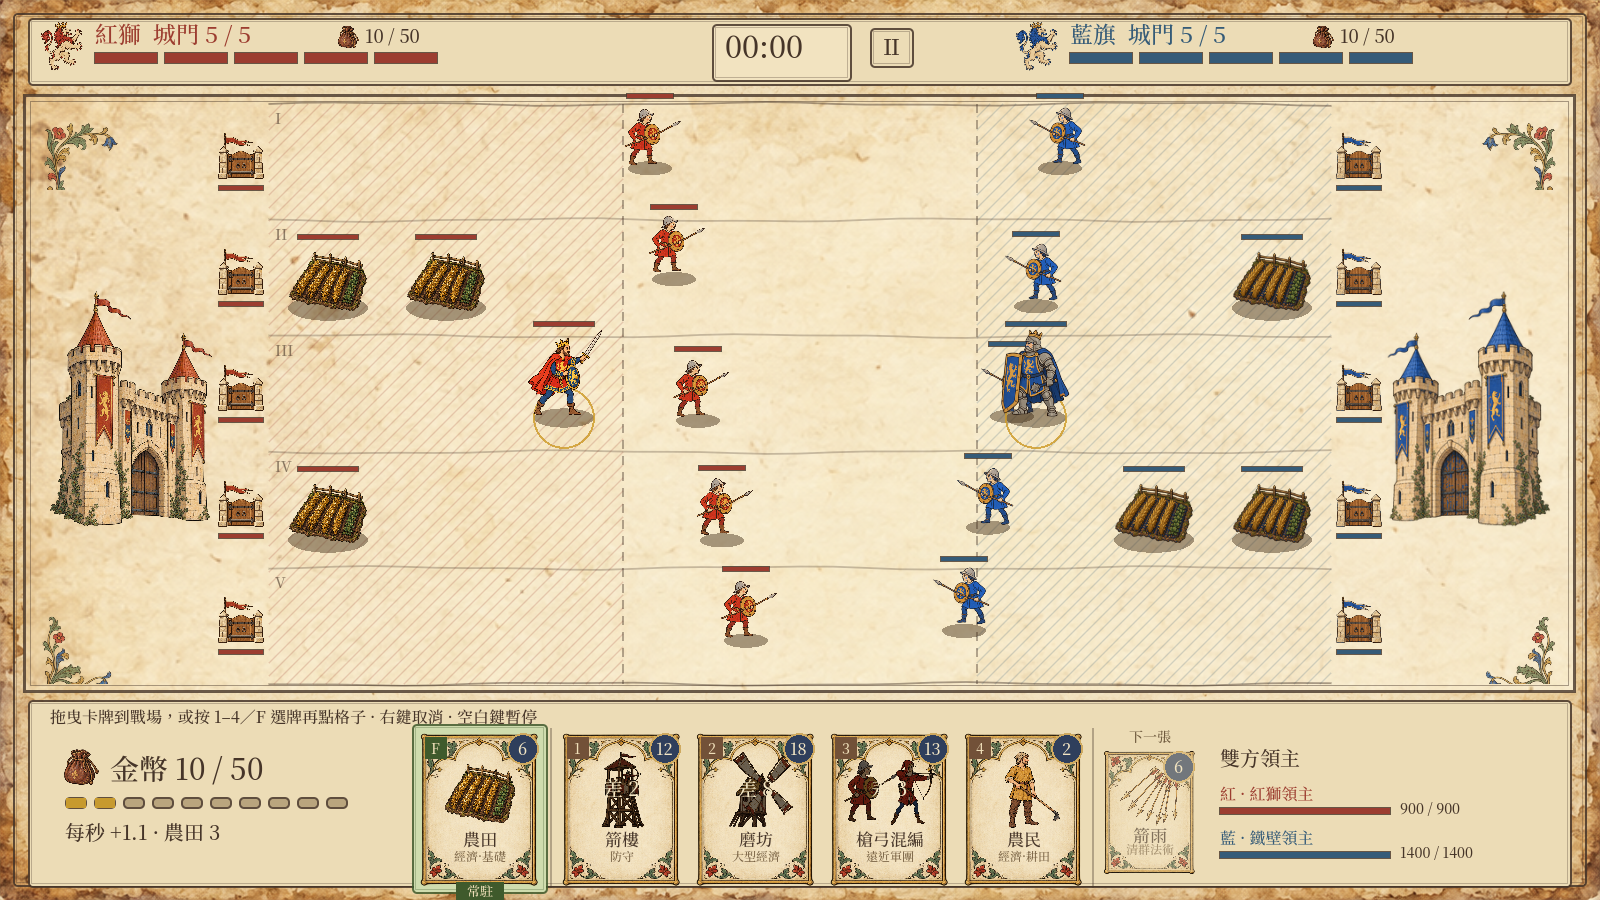
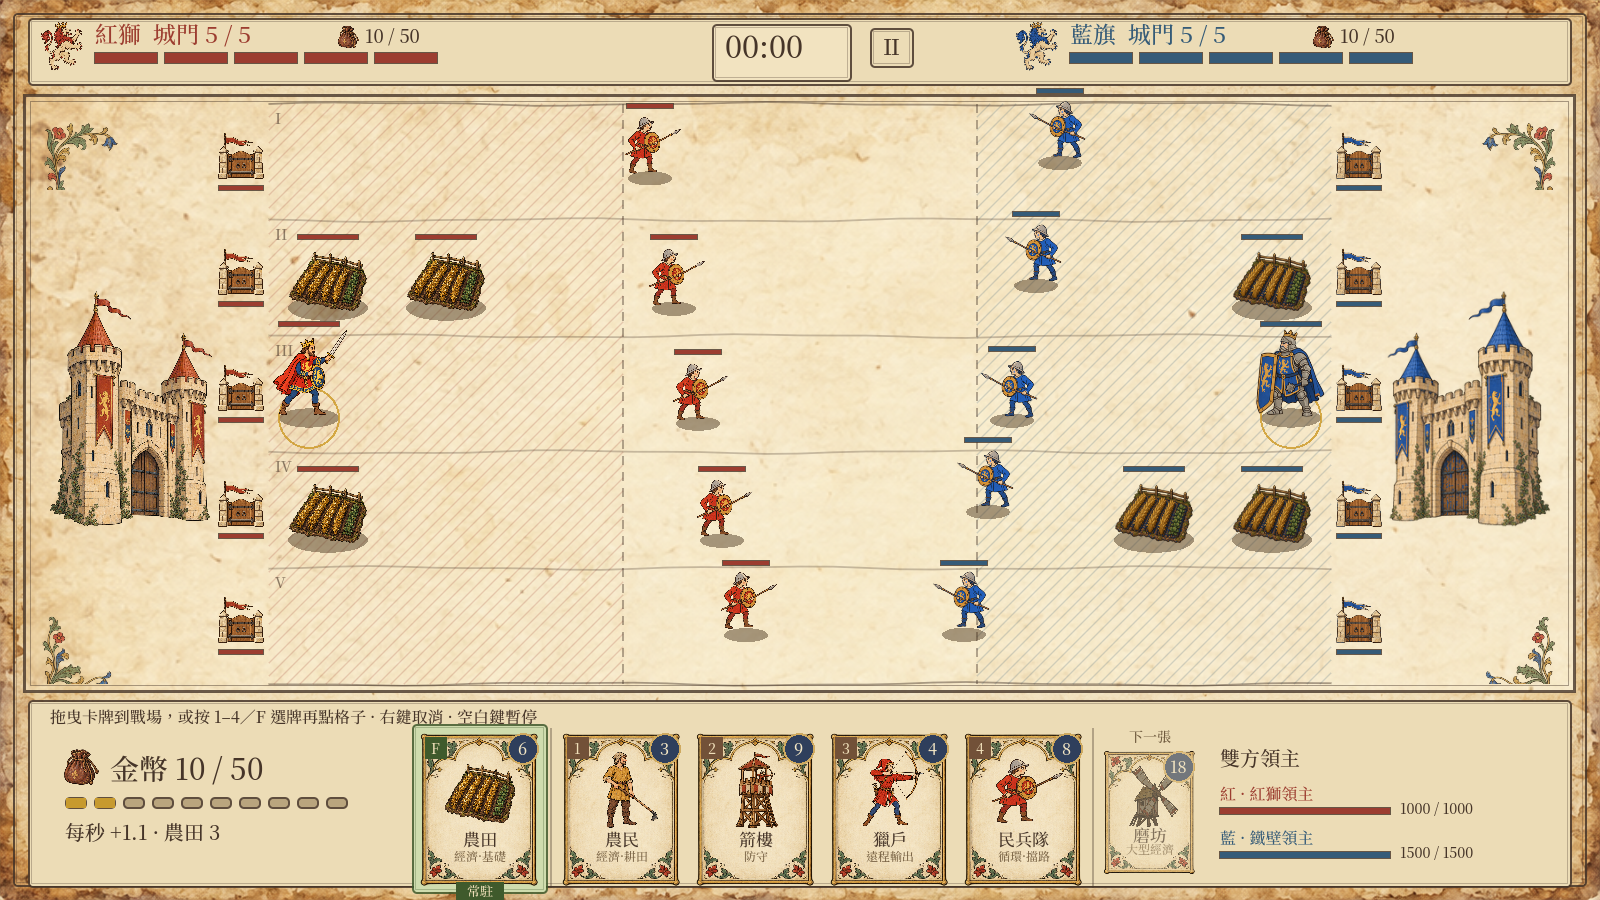
Lords stay behind the farms; lord speed 160 -> 90
Lords now move only in a strip between the gate and the back farm
column (LORD_ZONE_DEPTH 40 px), one speed tier lower, so raids on farms
are no longer stopped for free. Simulation now records farms lost in
the first 3 minutes and the first breach time.

1000 random matches: farms lost early per side 1.52 -> 2.03, first
breach median 174 -> 139 s; harvest lord 74%, iron 38%, lion 37%.
381 checks pass.

diff --git a/tools/autobalance.py b/tools/autobalance.py
@@ -92,7 +92,11 @@ def analyse(results, cards):
                 s[0] += score[side]
                 s[1] += 1
     lengths.sort()
+    breaches = sorted(r["breach"] for r in results if r.get("breach", -1) >= 0)
+    lost = [n for r in results for n in r.get("farms_lost_early", [])]
     return {
+        "breach": breaches[len(breaches) // 2] if breaches else -1,
+        "farms_lost": sum(lost) / len(lost) if lost else 0,
         "cards": {k: (v[0] / v[1] if v[1] else 0.5, v[1]) for k, v in stat.items()},
         "lords": {k: (v[0] / v[1] if v[1] else 0.5, v[1]) for k, v in lords.items()},
         "red_rate": red[0] / red[1] if red[1] else 0.5,
@@ -123,7 +127,8 @@ def table(analysis, cards, changes):
         rows.append(f"| {cards[kind][0]} | {cards[kind][1]} | {rate:.1%} | {games} | {change} |")
     lords = ", ".join(f"{k} {v[0]:.1%}（{v[1]}）" for k, v in sorted(analysis["lords"].items(), key=lambda kv: -kv[1][0]))
     head = (f"{analysis['matches']} 場；平手 {analysis['draws']}；決勝局中位數 {analysis['median']:.0f} 秒；"
-            f"紅方勝率 {analysis['red_rate']:.1%}\n\n領主勝率（雙方領主不同時）：{lords}\n")
+            f"紅方勝率 {analysis['red_rate']:.1%}\n\n"
+            f"前 3 分鐘每方平均被拆農田 {analysis['farms_lost']:.2f} 塊；第一次破門中位數 {analysis['breach']:.0f} 秒\n\n領主勝率（雙方領主不同時）：{lords}\n")
     return head + "\n" + "\n".join(rows)
 
 

diff --git a/docs/自動平衡報告.md b/docs/自動平衡報告.md
@@ -1,139 +1,34 @@
 # 自動平衡報告
 
-2026-10-29 19:59：共 500 場隨機牌組＋隨機領主的 AI 對戰，分 5 輪，每輪 100 場。每輪後依卡牌勝率調整費用（只改費用，數值檔次不動）。勝率只計算「只有一方帶這張牌」的對局；平手算半勝。
+2026-10-29 20:49：共 1000 場隨機牌組＋隨機領主的 AI 對戰，分 1 輪，每輪 1000 場。每輪後依卡牌勝率調整費用（只改費用，數值檔次不動）。勝率只計算「只有一方帶這張牌」的對局；平手算半勝。
 
-## 第 1 輪（84 秒）
+## 第 1 輪（475 秒）
 
-100 場；平手 0；決勝局中位數 194 秒；紅方勝率 49.0%
+1000 場；平手 1；決勝局中位數 169 秒；紅方勝率 49.5%
 
-領主勝率（雙方領主不同時）：harvest 66.7%（42）, iron 50.0%（44）, lion 34.1%（44）
+前 3 分鐘每方平均被拆農田 2.03 塊；第一次破門中位數 139 秒
 
-| 卡牌 | 費用 | 勝率 | 場次 | 調整 |
-|---|---|---|---|---|
-| 豐收 | 4 | 96.2% | 53 | 4 → 5 |
-| 民兵隊 | 7 | 68.0% | 50 | 7 → 8 |
-| 騎士 | 23 | 60.4% | 53 | 23 → 25 |
-| 農民 | 3 | 58.0% | 50 |  |
-| 獵戶 | 5 | 50.9% | 55 |  |
-| 槍弓混編 | 12 | 46.5% | 43 |  |
-| 聖堂護衛 | 30 | 45.5% | 55 |  |
-| 箭雨 | 6 | 45.3% | 53 |  |
-| 耕牛 | 14 | 45.3% | 53 |  |
-| 稻草人 | 3 | 44.9% | 49 |  |
-| 攻城槌 | 27 | 44.0% | 50 |  |
-| 草藥婆 | 6 | 43.2% | 44 |  |
-| 火罐 | 11 | 42.2% | 45 |  |
-| 乾草叉暴民 | 11 | 40.0% | 45 |  |
-| 箭樓 | 11 | 32.7% | 55 | 11 → 9 |
-| 磨坊 | 18 | 31.9% | 47 |  |
-
-## 第 2 輪（113 秒）
-
-100 場；平手 0；決勝局中位數 190 秒；紅方勝率 51.0%
-
-領主勝率（雙方領主不同時）：harvest 65.9%（41）, lion 50.0%（32）, iron 32.4%（37）
+領主勝率（雙方領主不同時）：harvest 74.3%（442）, iron 38.1%（425）, lion 36.9%（435）
 
 | 卡牌 | 費用 | 勝率 | 場次 | 調整 |
 |---|---|---|---|---|
-| 豐收 | 5 | 86.5% | 37 |  |
-| 箭雨 | 6 | 56.7% | 60 |  |
-| 獵戶 | 5 | 55.6% | 54 |  |
-| 火罐 | 11 | 54.3% | 35 |  |
-| 乾草叉暴民 | 11 | 52.0% | 50 |  |
-| 槍弓混編 | 12 | 51.4% | 37 |  |
-| 農民 | 3 | 50.0% | 42 |  |
-| 民兵隊 | 8 | 50.0% | 50 |  |
-| 騎士 | 25 | 47.8% | 46 |  |
-| 耕牛 | 14 | 46.9% | 49 |  |
-| 箭樓 | 9 | 46.8% | 47 |  |
-| 聖堂護衛 | 30 | 44.7% | 47 |  |
-| 草藥婆 | 6 | 43.2% | 44 |  |
-| 磨坊 | 18 | 42.2% | 45 |  |
-| 攻城槌 | 27 | 41.5% | 53 |  |
-| 稻草人 | 3 | 34.2% | 38 |  |
-
-## 第 3 輪（79 秒）
-
-100 場；平手 0；決勝局中位數 196 秒；紅方勝率 50.0%
-
-領主勝率（雙方領主不同時）：iron 58.8%（34）, harvest 56.9%（51）, lion 35.6%（45）
-
-| 卡牌 | 費用 | 勝率 | 場次 | 調整 |
-|---|---|---|---|---|
-| 豐收 | 5 | 80.9% | 47 |  |
-| 火罐 | 11 | 67.4% | 43 |  |
-| 乾草叉暴民 | 11 | 64.1% | 39 |  |
-| 騎士 | 25 | 60.4% | 53 | 25 → 26 |
-| 民兵隊 | 8 | 51.9% | 52 |  |
-| 農民 | 3 | 50.0% | 50 |  |
-| 槍弓混編 | 12 | 50.0% | 50 |  |
-| 聖堂護衛 | 30 | 49.0% | 51 |  |
-| 耕牛 | 14 | 46.7% | 45 |  |
-| 獵戶 | 5 | 46.5% | 43 |  |
-| 箭雨 | 6 | 45.8% | 59 |  |
-| 攻城槌 | 27 | 45.5% | 44 |  |
-| 磨坊 | 18 | 43.3% | 60 |  |
-| 稻草人 | 3 | 39.5% | 43 |  |
-| 草藥婆 | 6 | 33.3% | 42 |  |
-| 箭樓 | 9 | 27.7% | 47 |  |
-
-## 第 4 輪（98 秒）
-
-100 場；平手 1；決勝局中位數 206 秒；紅方勝率 50.5%
-
-領主勝率（雙方領主不同時）：harvest 62.2%（45）, iron 47.9%（48）, lion 38.5%（39）
-
-| 卡牌 | 費用 | 勝率 | 場次 | 調整 |
-|---|---|---|---|---|
-| 豐收 | 5 | 86.4% | 44 |  |
-| 民兵隊 | 8 | 65.2% | 46 |  |
-| 騎士 | 26 | 56.7% | 45 |  |
-| 箭雨 | 6 | 56.1% | 49 |  |
-| 乾草叉暴民 | 11 | 55.1% | 49 |  |
-| 槍弓混編 | 12 | 51.9% | 54 |  |
-| 農民 | 3 | 50.0% | 49 |  |
-| 磨坊 | 18 | 50.0% | 44 |  |
-| 耕牛 | 14 | 48.1% | 54 |  |
-| 火罐 | 11 | 45.6% | 45 |  |
-| 攻城槌 | 27 | 43.9% | 49 |  |
-| 聖堂護衛 | 30 | 43.8% | 56 |  |
-| 獵戶 | 5 | 43.0% | 50 |  |
-| 草藥婆 | 6 | 39.4% | 52 | 6 → 5 |
-| 箭樓 | 9 | 36.7% | 49 |  |
-| 稻草人 | 3 | 32.6% | 43 |  |
-
-## 第 5 輪（104 秒）
-
-100 場；平手 1；決勝局中位數 210 秒；紅方勝率 38.4%
-
-領主勝率（雙方領主不同時）：harvest 72.8%（46）, lion 51.2%（40）, iron 27.1%（48）
-
-| 卡牌 | 費用 | 勝率 | 場次 | 調整 |
-|---|---|---|---|---|
-| 豐收 | 5 | 90.2% | 41 |  |
-| 草藥婆 | 5 | 59.6% | 47 |  |
-| 箭雨 | 6 | 58.3% | 42 |  |
-| 耕牛 | 14 | 57.8% | 58 |  |
-| 騎士 | 26 | 53.0% | 50 |  |
-| 磨坊 | 18 | 51.9% | 52 |  |
-| 農民 | 3 | 50.8% | 60 |  |
-| 聖堂護衛 | 30 | 50.0% | 46 |  |
-| 乾草叉暴民 | 11 | 49.1% | 53 |  |
-| 火罐 | 11 | 46.7% | 45 |  |
-| 槍弓混編 | 12 | 43.4% | 38 |  |
-| 箭樓 | 9 | 42.3% | 52 |  |
-| 民兵隊 | 8 | 40.0% | 40 |  |
-| 稻草人 | 3 | 38.8% | 49 |  |
-| 獵戶 | 5 | 36.0% | 50 | 5 → 4 |
-| 攻城槌 | 27 | 35.1% | 47 |  |
+| 豐收 | 5 | 88.2% | 478 |  |
+| 民兵隊 | 8 | 58.1% | 506 |  |
+| 農民 | 3 | 56.2% | 484 |  |
+| 乾草叉暴民 | 11 | 54.8% | 510 |  |
+| 箭雨 | 6 | 53.1% | 448 |  |
+| 獵戶 | 4 | 50.7% | 510 |  |
+| 火罐 | 11 | 48.3% | 492 |  |
+| 草藥婆 | 5 | 47.8% | 469 |  |
+| 攻城槌 | 27 | 47.5% | 485 |  |
+| 耕牛 | 14 | 46.4% | 495 |  |
+| 聖堂護衛 | 30 | 45.4% | 500 |  |
+| 騎士 | 26 | 44.3% | 495 |  |
+| 槍弓混編 | 12 | 43.3% | 472 |  |
+| 稻草人 | 3 | 42.5% | 480 |  |
+| 箭樓 | 9 | 38.3% | 493 |  |
+| 磨坊 | 18 | 35.3% | 479 |  |
 
 ## 費用總變動
 
-| 卡牌 | 原費用 | 新費用 |
-|---|---|---|
-| 民兵隊 | 7 | 8 |
-| 豐收 | 4 | 5 |
-| 獵戶 | 5 | 4 |
-| 箭樓 | 11 | 9 |
-| 草藥婆 | 6 | 5 |
-| 騎士 | 23 | 26 |
+無。

diff --git a/docs/企劃書.md b/docs/企劃書.md
@@ -9,6 +9,7 @@
 >   - **卡牌只分三類：部隊、建築、法術。部隊一律往敵方前進，不會回頭。**
 >   - **領主完全由 AI 接管**（雙方），沒有手動操作。
 > - v4.1：**金幣上限 10 → 50**。金幣數字整體 ×2（費用、回復、產量），讓費用分得更細；出牌冷卻、AI 門檻、介面跟著調整。
+> - v6.5（2026-10-29）：**領主只在農田後方**：活動範圍縮到城門與最後一排農田之間（離後緣 10–40 px，`LORD_ZONE_DEPTH`），移速 160 → 90（降一檔）。前期騷擾農田不再被領主免費擋下。AI 也改為：農田路先蓋一座箭樓／稻草人、攻城槌要有部隊在前且留 10 金幣、草藥婆只放在我方部隊後方。1000 場：前 3 分鐘每方被拆農田 1.52 → 2.03 塊，第一次破門 174 → 139 秒；豐收領主 74%、鐵壁 38%、紅獅 37%。
 > - v6.4（2026-10-29）：**數值分 S–E 六檔，同檔同數值**（`balance.gd` 的 `TIERS`，測試強制）。攻擊 160／60／45／15／10／6；血量 1500／1000／500／150／85／50；射程 200／170／120／88／60／47；移速 160／90／60／40／30／22；攻擊間隔 0.65／0.8／0.9／1.0／1.2／2.0 秒。依原本檔次貼齊：民兵攻擊 15、間隔 0.9；農民移速 40；獵戶血 50、移速 30；草藥婆血 150；暴民血 50、攻擊 10、移速 60；耕牛血 500、攻擊 15；騎士攻擊 60、移速 22；攻城槌血 1500、移速 22；箭樓攻擊 15；紅獅 1000 血／60 攻；豐收 1000 血；鐵壁 1500 血／60 攻／移速 160。模擬：向日葵 10-2、劫掠 6-6、穩健 2-10，浪費 5.6%。
 > - v6.3（2026-10-29）：觀戰模式先進入設定畫面，雙方預設隨機牌組（8 張不重複、至少 3 張部隊）與隨機領主，可切換來源（隨機／三套預設／我的牌組）、重新隨機、選領主、點卡換下一張、互換雙方。
 > - v6.2（2026-10-29）：向日葵流牌組換成：農民、獵戶、磨坊、槍弓混編、箭樓、民兵隊、箭雨、耕牛（拿掉豐收、稻草人，補進攻手段）；穩健農莊的稻草人換成槍弓混編。

diff --git a/docs/交接給Codex.md b/docs/交接給Codex.md
@@ -5,7 +5,7 @@
 
 ## 1. 現在的遊戲長什麼樣（一句話版）
 
-即時卡牌對戰：牌組 10 張＝常駐農田＋一位領主（三選一）＋自選 8 張輪轉牌；金幣（上限 50）由基礎回復與農田產出；部隊只往前走，城門被打破後敵兵走進家門就輸；雙方領主由 AI 自動守自家領地。
+即時卡牌對戰：牌組 10 張＝常駐農田＋一位領主（三選一）＋自選 8 張輪轉牌；金幣（上限 50）由基礎回復與農田產出；部隊只往前走，城門被打破後敵兵走進家門就輸；雙方領主由 AI 自動防守，只在農田後方、城門前活動。
 
 規則細節以 `docs/企劃書.md` 最上方的版本紀錄（v4.2 → v6.2）為準，那是製作人一路下的決定。
 
@@ -49,7 +49,7 @@
 
 ## 5. 不要改回去的設計（製作人決定過的）
 
-部隊只往前走、不回頭；城門不反擊；城門破了敵兵走進家門就輸（先拆殘垣 3 秒）；沒有時間限制；單位可以重疊；領主只待在自家領地、沒有主動技能、由 AI 操作；農田沒有數量上限、常駐一格；建築不會自己消失、同一種建築可覆蓋回血；卡牌各自冷卻（開局手牌無冷卻，金幣加速時冷卻也加速）；戰鬥中按 R 不重開。
+部隊只往前走、不回頭；城門不反擊；城門破了敵兵走進家門就輸（先拆殘垣 3 秒）；沒有時間限制；單位可以重疊；領主只在農田後方活動（`LORD_ZONE_DEPTH`）、沒有主動技能、由 AI 操作；農田沒有數量上限、常駐一格；建築不會自己消失、同一種建築可覆蓋回血；卡牌各自冷卻（開局手牌無冷卻，金幣加速時冷卻也加速）；戰鬥中按 R 不重開。
 
 ## 6. 目前最新的模擬結果（v6.2，18 局）
 
